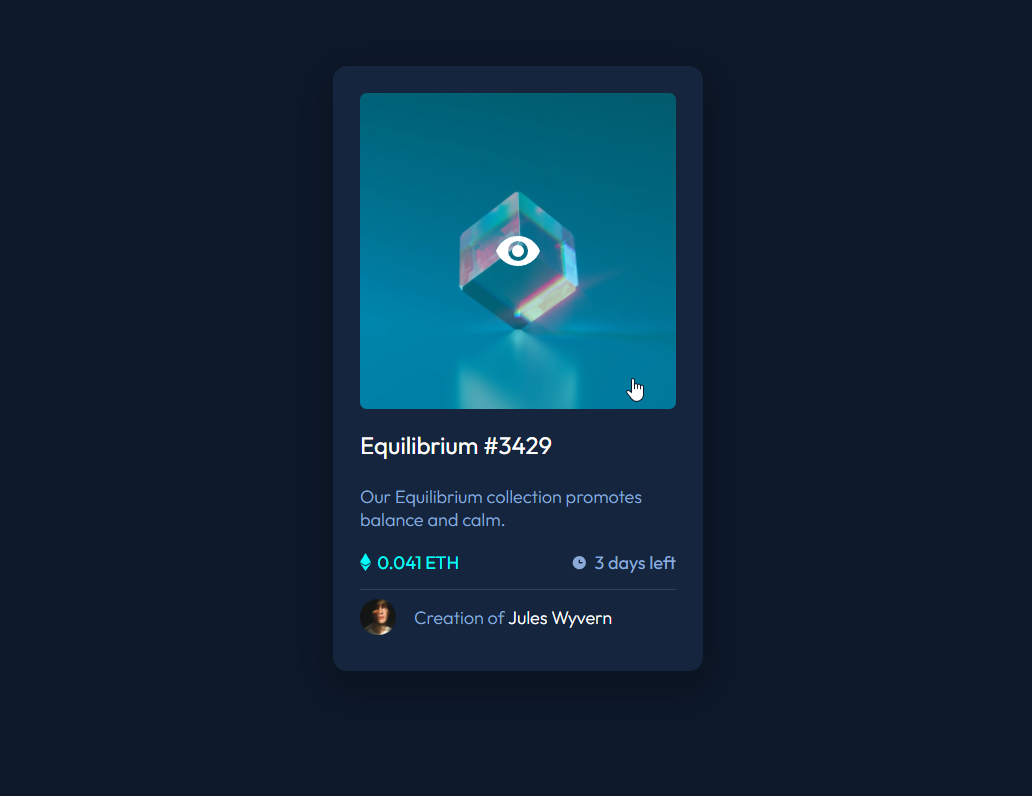
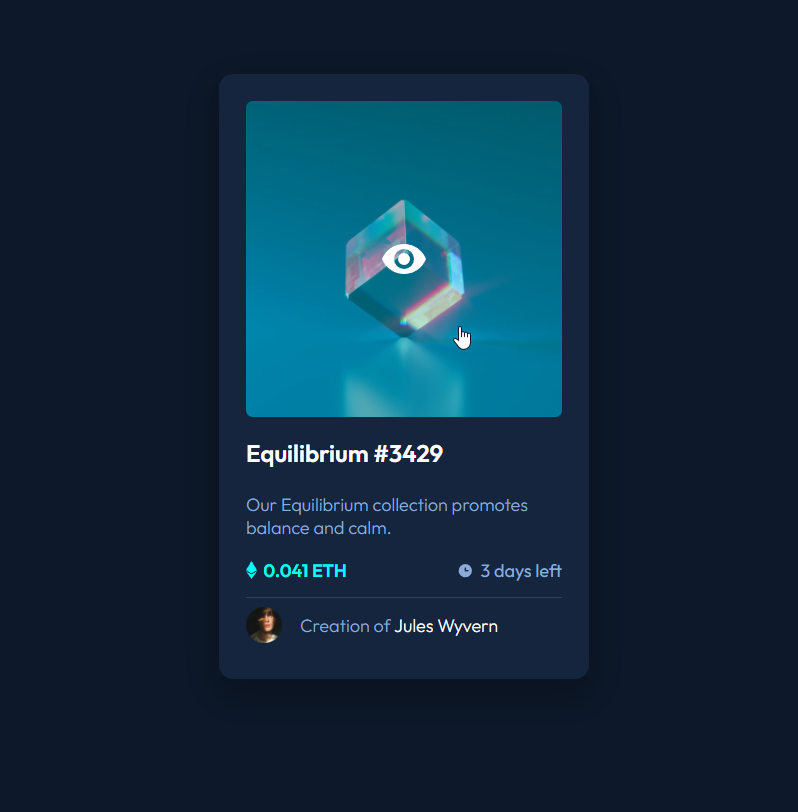
Tweaked styles and added main tag

Changed region(s): [[0.3008, 0.0905, 0.7218, 0.8442], [0.4211, 0.4523, 0.4511, 0.5126]]

diff --git a/nft-preview-card/index.html b/nft-preview-card/index.html
@@ -22,36 +22,46 @@
     <title>David Pelo | NFT preview card component</title>
   </head>
   <body>
-    <div class="card-container">
-      <div class="nft-container">
-        <a href="#">
-          <img
-            class="nft"
-            src="./images/image-equilibrium.jpg"
-            alt="a really cool NFT"
-          />
-          <div class="overlay"></div>
-          <img src="./images/icon-view.svg" class="overlay-icon" />
-        </a>
-      </div>
-      <a href="#" class="title">Equilibrium #3429</a>
-      <p class="description">
-        Our Equilibrium collection promotes balance and calm.
-      </p>
-      <div class="info">
-        <div class="price">
-          <img src="./images/icon-ethereum.svg" /><span>0.041 ETH</span>
+    <main>
+      <div class="card-container">
+        <div class="nft-container">
+          <a href="#">
+            <img
+              class="nft"
+              src="./images/image-equilibrium.jpg"
+              alt="a really cool NFT"
+            />
+            <div class="overlay"></div>
+            <img
+              src="./images/icon-view.svg"
+              alt="view NFT"
+              class="overlay-icon"
+            />
+          </a>
         </div>
-        <div class="time-left">
-          <img src="./images/icon-clock.svg" /><span>3 days left</span>
+        <a href="#" class="title">Equilibrium #3429</a>
+        <p class="description">
+          Our Equilibrium collection promotes balance and calm.
+        </p>
+        <div class="info">
+          <div class="price">
+            <img src="./images/icon-ethereum.svg" alt="ETH currency" /><span
+              >0.041 ETH</span
+            >
+          </div>
+          <div class="time-left">
+            <img src="./images/icon-clock.svg" alt="clock" /><span
+              >3 days left</span
+            >
+          </div>
+        </div>
+        <hr class="line" />
+        <div class="creator">
+          <img src="./images/image-avatar.png" alt="avatar of the creator" />
+          <p>Creation of <a href="#" class="signature">Jules Wyvern</a></p>
         </div>
       </div>
-      <hr class="line" />
-      <div class="creator">
-        <img src="./images/image-avatar.png" alt="avatar of the creator" />
-        <p>Creation of <a href="#" class="signature">Jules Wyvern</a></p>
-      </div>
-    </div>
+    </main>
 
     <div class="attribution">
       Challenge by

diff --git a/nft-preview-card/styles.css b/nft-preview-card/styles.css
@@ -97,7 +97,7 @@ body {
 .title {
   color: var(--clr-white);
   font-size: 24px;
-  font-weight: 400;
+  font-weight: 600;
   display: flex;
   align-items: center;
   height: 3em;
@@ -128,6 +128,7 @@ body {
   color: var(--clr-primary-cyan);
   display: flex;
   align-items: center;
+  font-weight: 600;
 }
 
 .price span {
